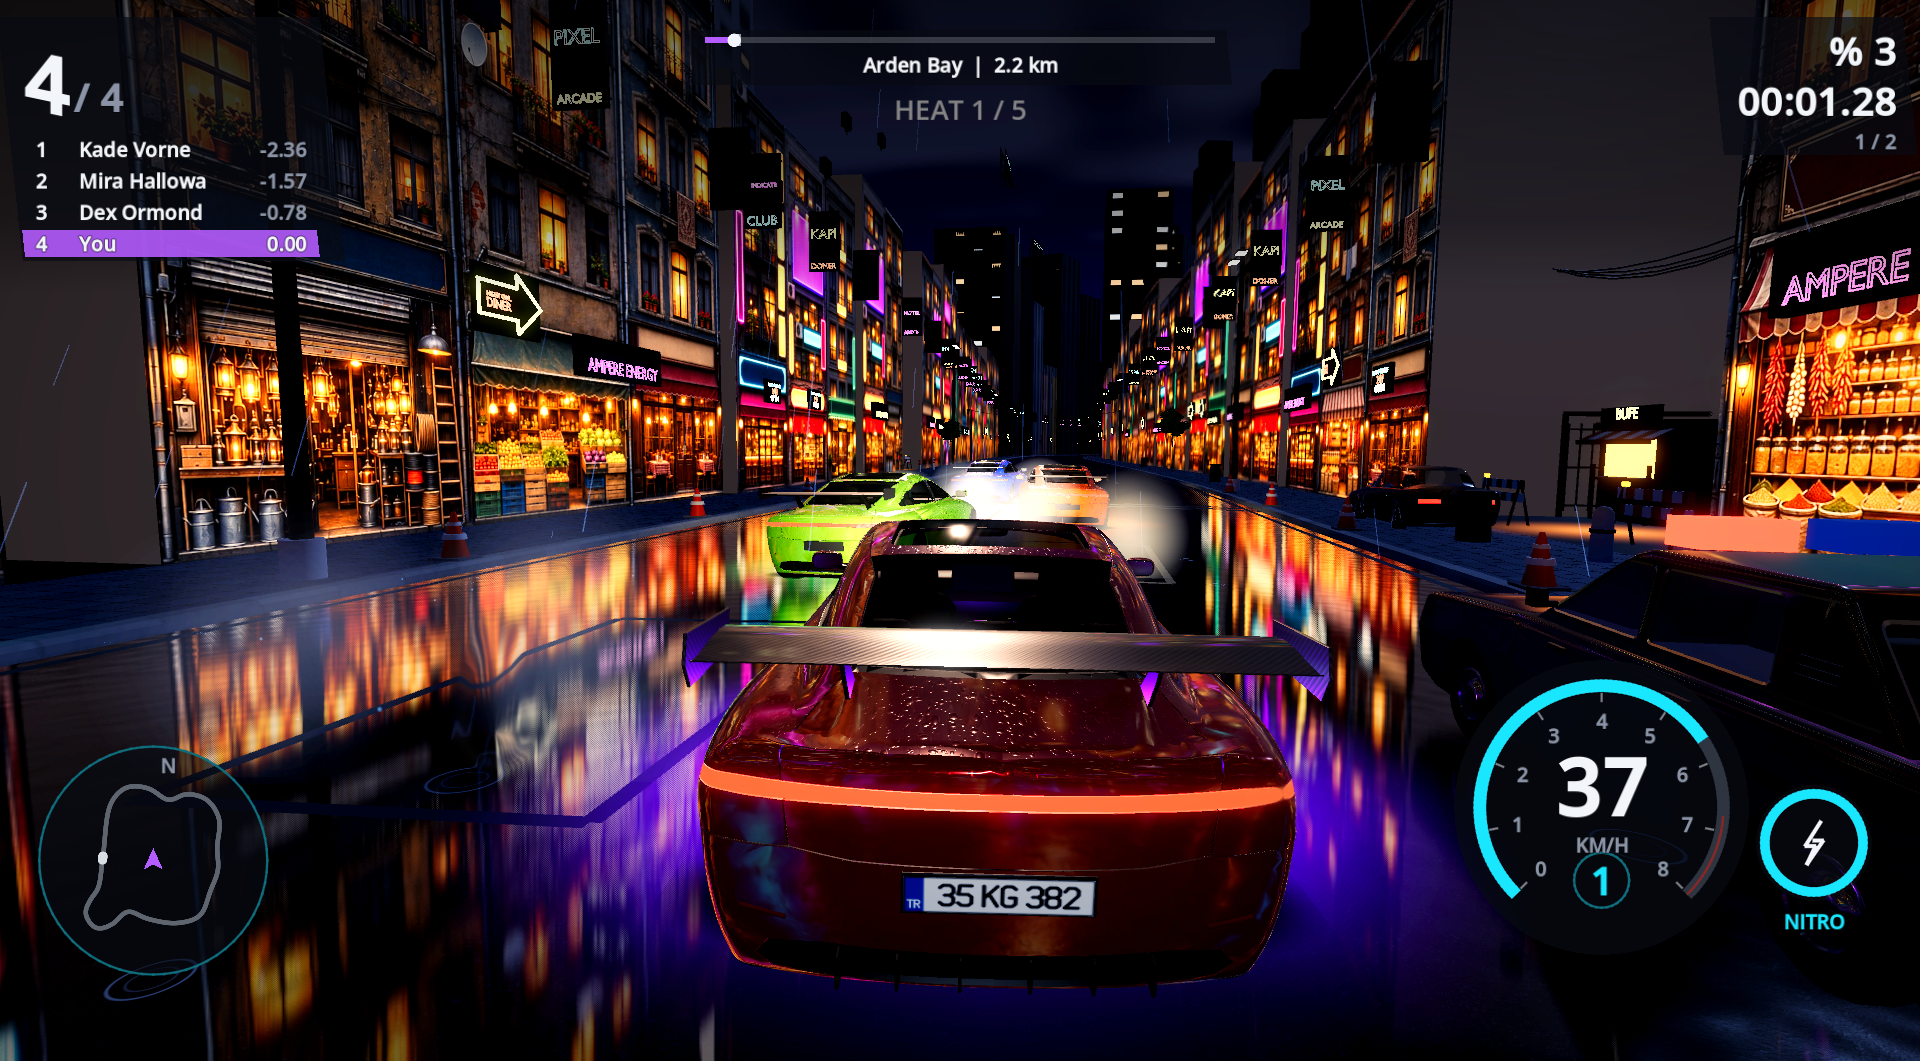
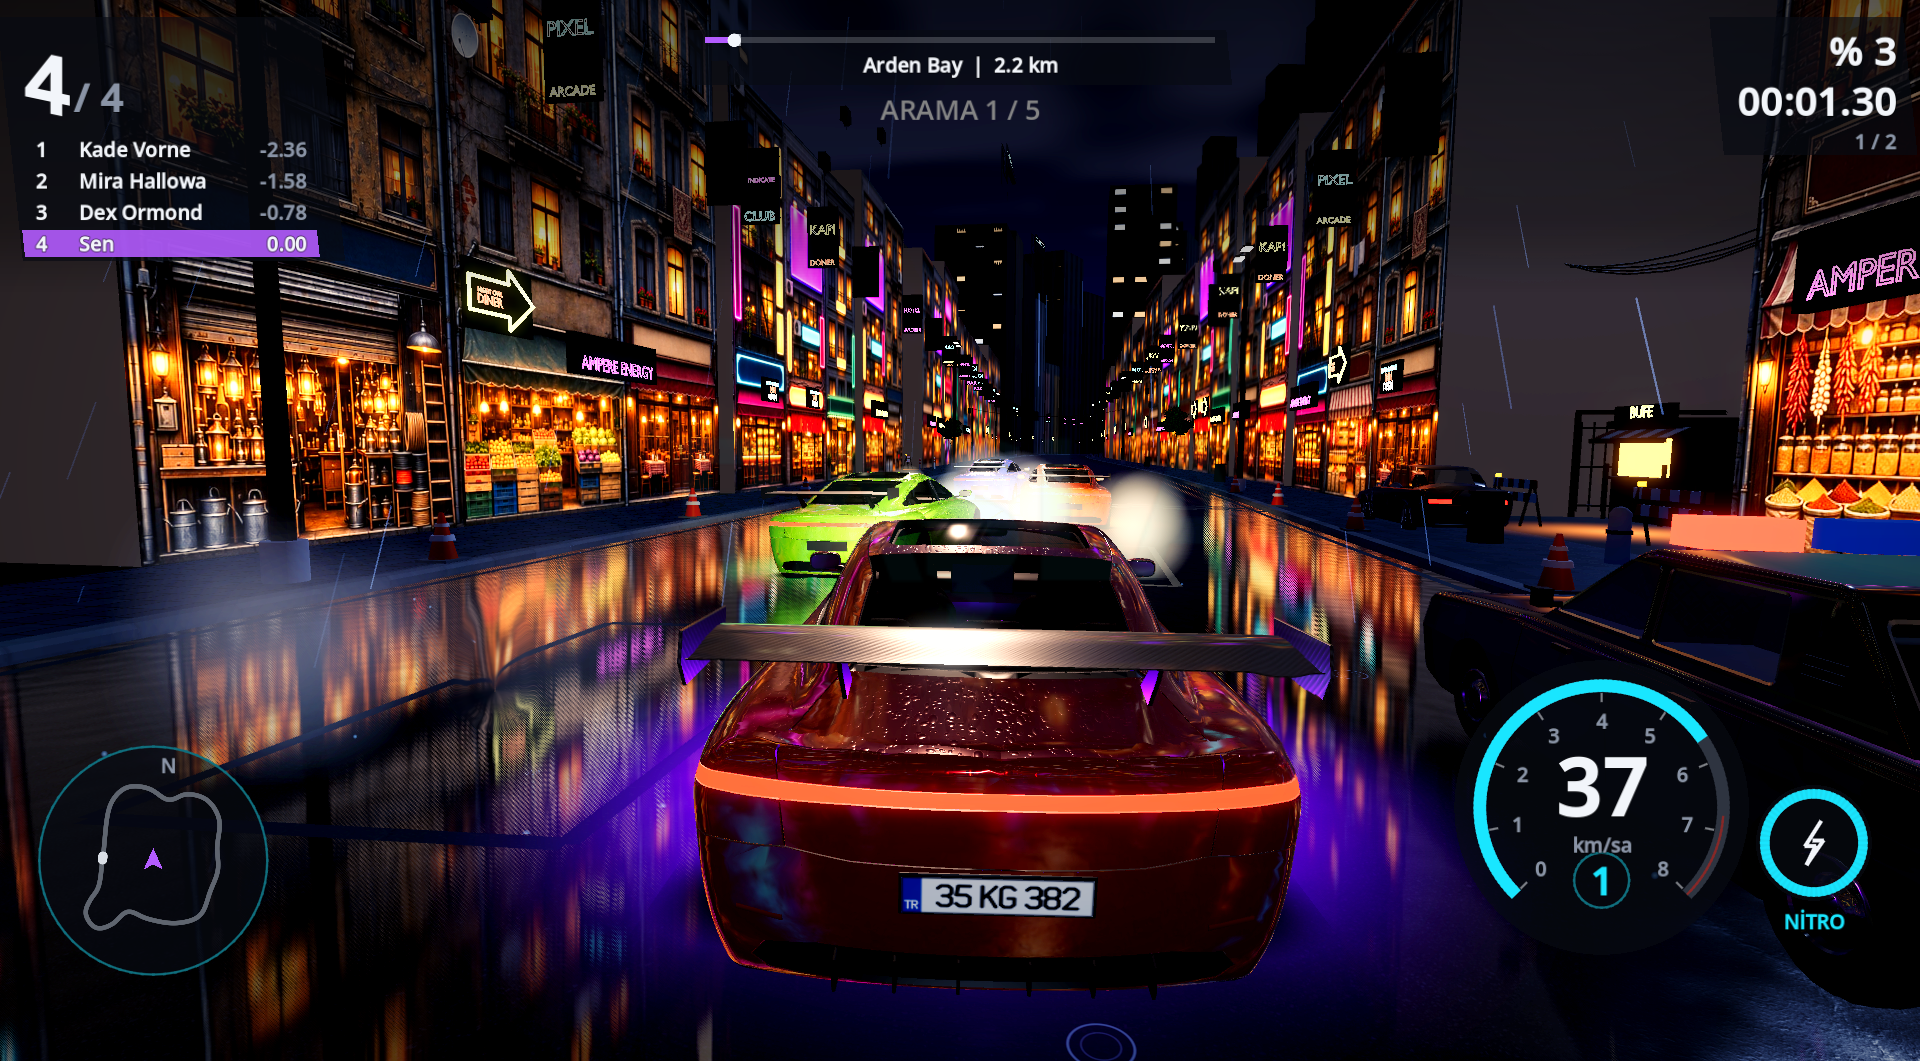
Bosphorus escape: police pursuit as a career event
The pursuit mode becomes playable from the career menu. The global kill
switch PursuitMode.ENABLED stays false; an event opts in with
"pursuit": true, which sets RaceConfig.pursuit and pursuit_event, and the
race gate accepts pursuit_event.

- events.gd: "bogaz_escape" (istanbul_bogaz, night, 2 laps, open, pursuit).
  Next after the ladder skips open events, so the ladder still ends at
  istanbul_championship.
- race_scene.gd: gate accepts pursuit_event. BUSTED stops the race for the
  player and shows the results with no standings, stars, cash or record
  after a 3 s banner. _on_race_finished ignores a busted race.
- pursuit_mode.gd: busted signal, HUD banners localized (TR/EN).
- i18n: event name and pursuit strings (tr and en).
- Tests: test_escape_event.gd (reachable, localized, other events police
  free, gate with kill switch off, autopilot run to a result). Counts in
  test_events updated for the 31st event. test_pursuit_mode uses the
  localized banner text.
- Capture: evidence/screens/pursuit_demo/pursuit_police_behind.png shows
  the police car beside the player and the HEAT HUD.

diff --git a/docs/design/PURSUIT_MODE.md b/docs/design/PURSUIT_MODE.md
@@ -1,6 +1,6 @@
 # Police pursuit mode
 
-Status: opt-in and disabled. `PursuitMode.ENABLED` is `false` in every build, and `RaceConfig.pursuit` is `false` by default. A race gets the mode only when both are true. Normal races add no police node and no police car, and their results do not change.
+Status: opt-in. `PursuitMode.ENABLED` is `false` in every build, and `RaceConfig.pursuit` is `false` by default. A race gets the mode when `RaceConfig.pursuit` is true and either `PursuitMode.ENABLED` is true or the race is a career event that opts in (`RaceConfig.pursuit_event`). Only the Bosphorus escape event opts in, so the mode is playable from the career menu while the global kill switch stays off. Normal races add no police node and no police car, and their results do not change.
 
 ## Pieces
 
@@ -11,8 +11,9 @@ Status: opt-in and disabled. `PursuitMode.ENABLED` is `false` in every build, an
 | `game/race/pursuit/roadblock.gd` | `Roadblock`: barrier layout that leaves one lane open, placement check |
 | `game/race/pursuit/pursuit_hud.gd` | `PursuitHud`: heat label and BUSTED / ESCAPED banner |
 | `game/race/pursuit/pursuit_mode.gd` rules | `PursuitState` (`game/ai/pursuit_state.gd`) is used unchanged: heat 1-5, chase, cooldown, escaped, busted |
-| `game/race/race_config.gd` | `pursuit: bool = false` |
-| `game/race/race_scene.gd` | After `race.setup`, adds one `PursuitMode` child when `config_used.pursuit and PursuitMode.ENABLED` |
+| `game/race/race_config.gd` | `pursuit: bool = false`, `pursuit_event: bool = false` (set by an event that opts in) |
+| `game/race/race_scene.gd` | After `race.setup`, adds one `PursuitMode` child when `config_used.pursuit and (PursuitMode.ENABLED or config_used.pursuit_event)`. On BUSTED it stops the race and shows a result with no time, no reward and no record |
+| `game/race/events.gd` | Career event `bogaz_escape` ("Boğaz kaçışı" / "Bosphorus escape"): istanbul_bogaz, night, 2 laps, `open` and `pursuit` |
 | `game/tests/test_pursuit_mode.gd` | 15 in-process tests |
 | `game/devtools/scenarios/pursuit_demo.gd` | Capture scenario that force-enables the mode for one run |
 
@@ -29,12 +30,22 @@ Status: opt-in and disabled. `PursuitMode.ENABLED` is `false` in every build, an
 - Escape reward: 200 cash per heat level, added with `GameState.add_cash` on ESCAPED. Nothing else is paid. The rules do not tick until the first police car exists, so a chase whose spawn spots are all blocked cannot escape or pay.
 - Visuals: dark-blue body (`#16305C`), no text, no logos. A light bar on the roof flashes red and blue with emissive materials and no light sources.
 
+## Career event: Bosphorus escape
+
+- Event `bogaz_escape` is open from the start, so it never locks and never gates the ladder. The Next button after the last ladder event skips open events, so it does not offer this one.
+- It races on istanbul_bogaz at night, 2 laps, against 3 street-class rivals (skills 0.90, 0.88, 0.86), with police pursuit on.
+- Escaped: the ESCAPED banner shows and the cash reward is paid. The race goes on to its finish, which pays the normal reward.
+- Busted: the BUSTED banner shows, the race stops for the player, and 3 s later the results screen shows no standings, no stars, no cash and no record. The event can be retried.
+- Strings are in `game/ui/i18n.gd` (tr and en): `event.bogaz_escape.name`, `pursuit.heat`, `pursuit.busted`, `pursuit.escaped`, `pursuit.busted.result`.
+- Test: `game/tests/test_escape_event.gd` (reachable and localized, other events police-free, the event flag passes the gate with the kill switch off, and an autopilot run to a finish or a bust with the result checked).
+
 ## Not done or known limits
 
 - Police drivers can still follow slower rivals (AIDriver sensing). They do not steer around the player.
 - Spawns are 75 to 88 m behind. On long straights a police car can still be in view if all candidate spots are visible. The hit rate of out-of-view spawns is not measured.
-- The BUSTED and ESCAPED outcomes stop the police and show a banner. The results screen does not change. Pursuit races are opt-in, and in them the roadblock barriers are solid, so they can block rival AIs and change race positions.
+- ESCAPED keeps the race running; BUSTED ends it for the player (see the event section). The roadblock barriers are solid in pursuit races, so they can block rival AIs and change race positions.
 - No real police livery. Barriers are plain props, not tuned models.
 - Not checked on a phone. Desktop numbers are not phone numbers.
 - The roadblock is a barrier line, not a navigation or AI avoidance problem. The AI is not tuned to avoid it.
 - `ENABLED` is a static var rather than a const, so tests and capture can flip it for one run. Normal builds leave it false.
+- The busted run keeps the car physically moving for the 3 s banner while the race clock is paused.
